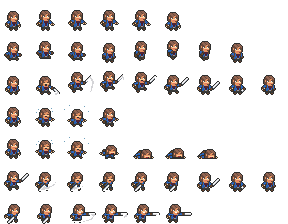
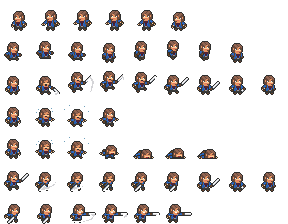
Add files via upload

Changed region(s): [[0.3438, 0.0312, 0.6562, 0.1562], [0.125, 0.0312, 0.3125, 0.1562], [0.0, 0.0312, 0.0938, 0.1562]]

diff --git a/Projet Final grand oral/jeu.py b/Projet Final grand oral/jeu.py
@@ -33,10 +33,12 @@ class Player(pygame.sprite.Sprite):
         self.sprite_sheet.load_images("run_l",numbers = 8,row = 3)
         self.sprite_sheet.load_images("attack_r",numbers = 8,row = 4)
         self.sprite_sheet.load_images("attack_l",numbers = 8,row = 5)
-        self.sprite_sheet.load_images("hit",numbers = 8,row = 6)
-        self.sprite_sheet.load_images("death",numbers = 8,row = 7)
-        self.sprite_sheet.load_images("fall_r",numbers = 8,row = 8)
-        self.sprite_sheet.load_images("fall_l",numbers = 8,row = 9)
+        self.sprite_sheet.load_images("hit_r",numbers = 8,row = 6)
+        self.sprite_sheet.load_images("hit_l",numbers = 8,row = 7)
+        self.sprite_sheet.load_images("death_r",numbers = 8,row = 8)
+        self.sprite_sheet.load_images("death_l",numbers = 8,row = 9)
+        self.sprite_sheet.load_images("fall_r",numbers = 8,row = 10)
+        self.sprite_sheet.load_images("fall_l",numbers = 8,row = 11)
         self.image = self.sprite_sheet.get_images("idle_r")[0]
         self.rect = self.image.get_rect()
         self.position = [x,y]
@@ -51,7 +53,9 @@ class Player(pygame.sprite.Sprite):
         self.speed = 3
         self.life = 3
         self.alive = True
+        self.movable = True
         self.last_view = "r"
+        self.play = True
 
     def move_right(self):
         self.position[0] += self.speed
@@ -67,11 +71,18 @@ class Player(pygame.sprite.Sprite):
 
     def move_back(self):
         self.position = self.old_position
+    
+    def death(self):
+        self.movable = False
+        self.current_animation_index = 0
+        self.change_animation("death_" + self.last_view)
+        self.alive = False
 
     def fall(self,spawn):
         self.position = spawn
         self.change_animation("idle_" + self.last_view)
         self.possible_fall = True
+        self.movable = True
         self.life -= 1
         if self.life > 1:
             print("Vous êtes tombés et il vous reste",self.life,"points de vie")
@@ -84,6 +95,7 @@ class Player(pygame.sprite.Sprite):
                 self.current_animation_index = 0
                 self.change_animation("fall_" + self.last_view)
                 self.possible_fall = False
+                self.movable = False
         if self.cooldown_fall >= 800:
             self.cooldown_fall = 0
             self.fall([self.spawn_point.x,self.spawn_point.y])
@@ -108,14 +120,18 @@ class Player(pygame.sprite.Sprite):
         self.old_position = self.position.copy()
 
     def update(self):
-        self.cool_fall()
-        self.rect.topleft = self.position
-        self.feet.midbottom = self.rect.midbottom
-        self.animation()
-        self.image = self.get_animation()[self.current_animation_index%8]
-        self.image.set_colorkey((0,0,0))
-        self.image = pygame.transform.scale(self.image,(50,50))
-        self.start = time.time()
+        if self.alive == False:
+            if self.current_animation_index == 7:
+                self.play = False
+        if self.play == True:
+            self.cool_fall()
+            self.rect.topleft = self.position
+            self.feet.midbottom = self.rect.midbottom
+            self.animation()
+            self.image = self.get_animation()[self.current_animation_index%8]
+            self.image.set_colorkey((0,0,0))
+            self.image = pygame.transform.scale(self.image,(50,50))
+            self.start = time.time()
 
 class Pnj(pygame.sprite.Sprite):
     def __init__(self,x,y):
@@ -310,8 +326,7 @@ class Game:
 
     def handle_input(self):
         pressed = pygame.key.get_pressed()
-        if self.player.alive == True:
-            if self.player.current_animation != "fall_l" and self.player.current_animation != "fall_r":
+        if self.player.movable == True:
                 if pressed[pygame.K_w]:
                     self.player.move_up()
                     self.player.change_animation("run_"+self.player.last_view)
@@ -332,14 +347,6 @@ class Game:
                 elif pressed[pygame.K_1]:
                     self.player.change_animation("attack_"+self.player.last_view)
                     self.player.last_view = "l"
-                elif pressed[pygame.K_f]:
-                    self.player.change_animation("fall_"+self.player.last_view)
-                    self.player.last_view = "l"
-                elif pressed[pygame.K_g]:
-                    self.player.change_animation("fall_"+self.player.last_view)
-                    self.player.last_view = "r"
-                elif pressed[pygame.K_l]:
-                    self.cobra.move_back()
                 else:
                     self.player.change_animation("idle_"+self.player.last_view)
 
@@ -385,8 +392,8 @@ class Game:
                     monster.cooldown_switch += clock.get_time()
                     monster.cooldown_move += clock.get_time()
             if self.player.life <= 0 :
-                self.player.change_animation("death")
-                self.player.alive = False
+                if self.player.alive == True:
+                    self.player.death()
             #actualisation de l'écran
             pygame.display.flip()
             song.play()
